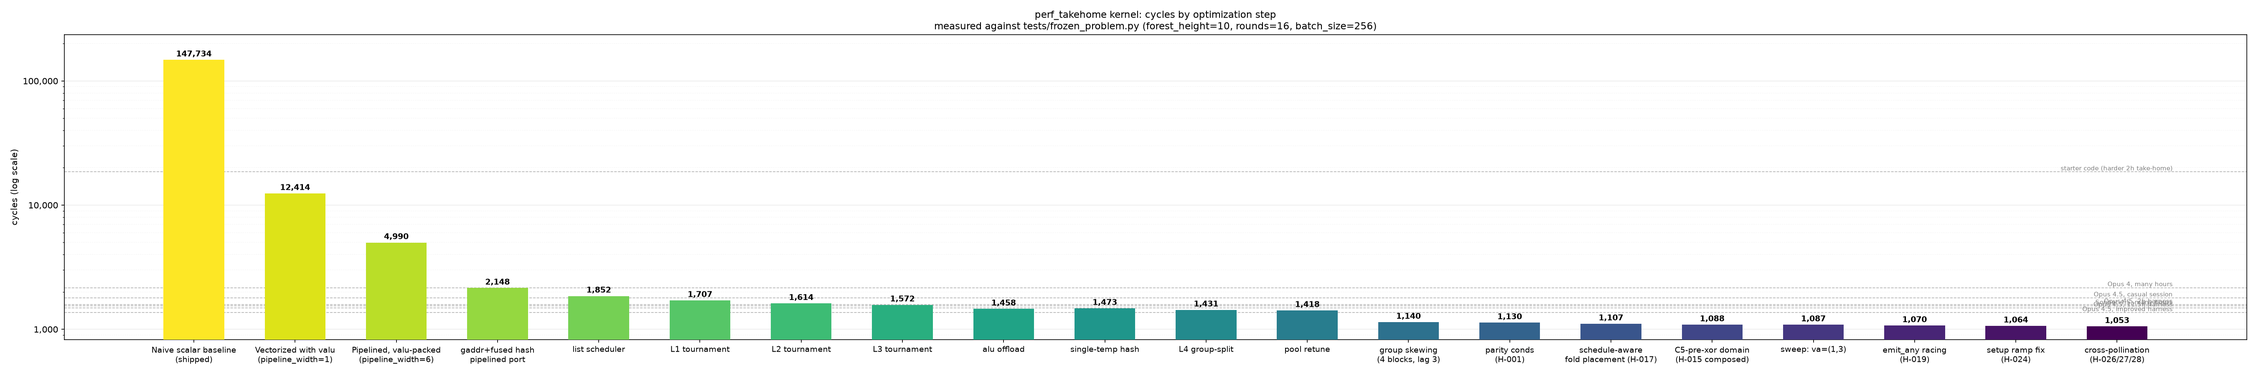
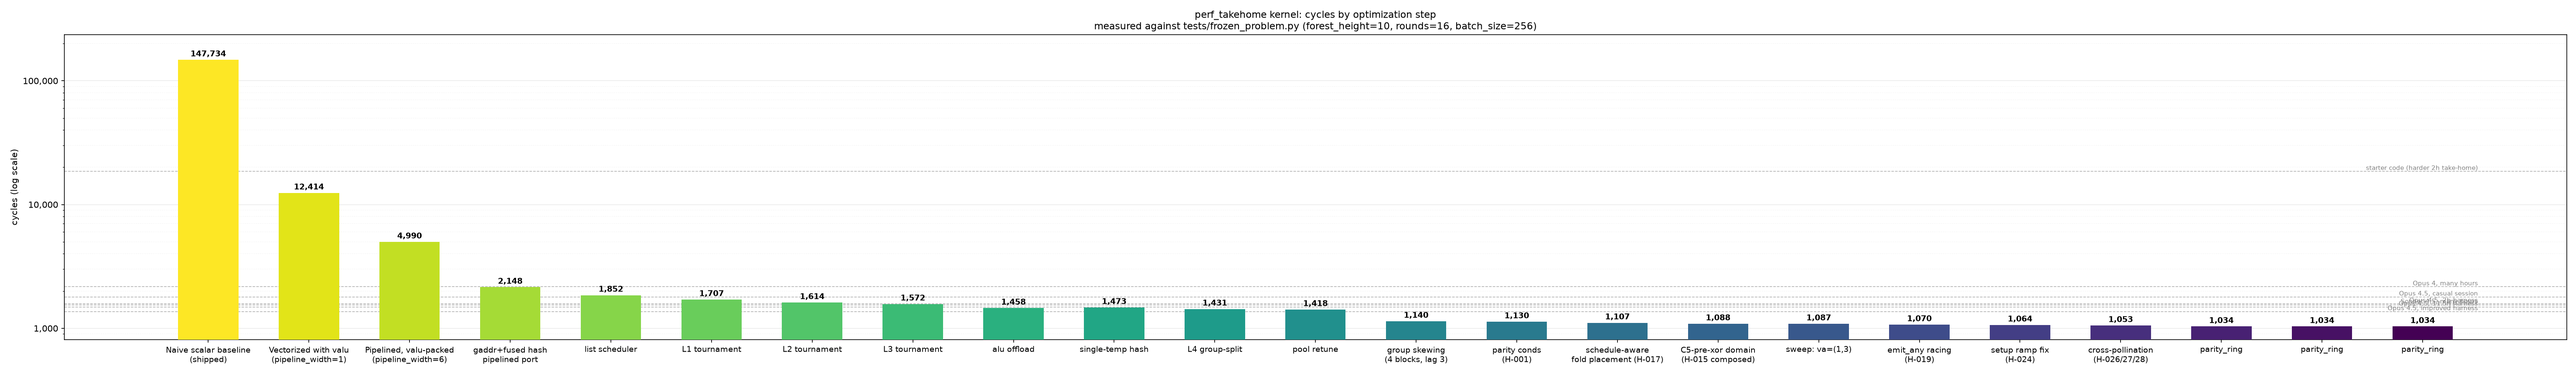
F-1: mainline flipped to 1034 (parity_ring + gmin(7,30) ported flag-free; temp-pool keying drift fixed); milestone recorded
Claude-Session: 5cfbd141-00dc-4755-aaa3-3deea70ab9f0

diff --git a/research/RESEARCH.md b/research/RESEARCH.md
@@ -7,7 +7,7 @@
 
 | cycles | commit | config |
 |---|---|---|
-| 1038 | 3174858 | H-031 mem-hazard fix + H-030 tie-break + H-029 idx_select on the 1053 stack |
+| 1034 | F-1 port | H-045 parity_ring (cond retention via dead-window register borrowing) + l4_gmin=(7,30) on the 1038 stack |
 
 ## Floors (recalibrated 2026-07-27 at 1038, see tools/diagnose_kernel.py + tools/export_dashboard.py)
 
@@ -86,6 +86,7 @@ Global: 6 dry iterations -> one cross-pollination iteration. Status report to us
 - iter 13 | H-040 CLOSED ANSWERED: 892 = no-indices board + different organization; same-rules frontier 940; the 1,015 floor is a fixed-gather-count artifact. Loop redirected: H-041 select-tree gather conversion + per-cycle engine-mix balance (corsix: >280 gathers convertible, valu:load:flow 7.5:2:1), H-042 beam-search bundle packing (wallace: beats greedy). H-038/H-039 still running | best 1038
 - iter 13 | H-041 REJECTED -> G-23 (we ALREADY run the frontier's 7.5:2:1 balance — steady window co-saturated, valu binder floor 1020, friction only 18; L4 at equilibrium on count AND composition axes; L5 dead 3 ways; conversion activates only below ~950 after ~400 valu/~600 alu removal). MODE CHANGE (user directive): ALGO-FIRST under idealized machine (infinite scratch + perfect allocation) — fitting/allocation PARKED (H-042 parked); new algo strain: H-043 (frontier writeup mechanism extraction), H-044 (ideal-machine cost model + serving-strategy solve) | best 1038
 - iter 14 | H-045 PARTIAL ACCEPT: parity_ring cond retention (dead-window cross-block register borrowing, 480w at zero net alloc) + gmin slide -> strain frontier 1034 (-4), first win since restart; superadditive slices confirm the coupled prize; blockers: 384 more ring words for full retention (mid-schedule fully live), flow leg needs joint scheduling (H-042 re-scope) not spelling. F-1 mainline port spawned | best 1038 (frontier 1034)
+- iter 14 | F-1 MAINLINE FLIPPED -> 1034 (port exact; also root-caused a real dev/perf drift: perf keyed temp pools by g%size vs dev's global emission-index rotation — WAW serialization difference, now baked with comment). Iter 14 tally: 2 answers (H-043/H-044), 1 accept chain (H-045+F-1, -4), milestone recorded | best 1034
 - iter 14 | H-044 CLOSED ANSWERED: ideal-floor LP (tools/ideal_floor.py, validated) — best serving mix under infinite scratch = 931.6 (serve L1-L3 + 31/64 L4, prime L4/L5/L6, 918 flow selects, conds retained from parity vectors); 940 NEEDS ZERO NEW ALGEBRA, but is UNREACHABLE with the as-built mix by any compute removal (load floor 951 binds). Gap: 1038 -24-> 1014 -63-> 951 -20-> 932. Marginal rate at optimum ~97 lane-ops/cyc; loads live again (G-22 verdict was mix-relative). H-045 re-scoped to the full flow-saturation build and spawned | best 1038
 - iter 14 | H-043 CLOSED ANSWERED: frontier hash IS our 11-op form (corsix SVGs decoded — all onset closures CONFIRMED); the gap mechanism is valu->flow select EXPORT (exits the 60-lane-op budget, ideal ~988) + select-tree/load rebalance via joint selection x scheduling. G-22/G-18 flagged with scope holes under algo-first (friction-based rejections, op removal real). Queued: H-045 flow-maximization (ideal -50), H-046 idealized priming reopen, H-047 L5+ select trees (940 provably requires a level off the load engine: 2x940=1,880 < 1,900 loads). H-044 (ideal model) + H-038 still running | best 1038
 - iter 13 | H-039 REJECTED -> G-22 (mem_prime crossover already behind L5: lane-ops drop -144 but off slack engines, waves displace the critical path; corrects H-026 mechanism note; -116-loads supply side has NO mechanism — load-count leg fully closed inside current organization; byproduct: front 0-60 load window reachable via dead-reg staging). H-041 spawned (select-tree gather conversion, the frontier's named lever). H-038 still running | best 1038
